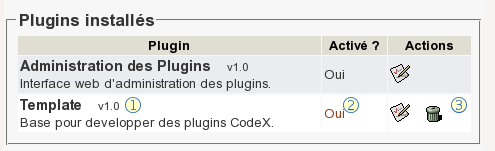
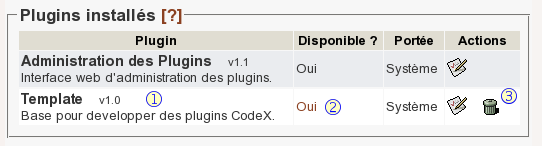
Update PluginsAdministration documentation.

Changed region(s): [[0.0, 0.0548, 0.9697, 0.9589], [0.5455, 0.6027, 0.9697, 0.8219], [0.5455, 0.4384, 0.6061, 0.5205]]

diff --git a/plugins/pluginsadministration/www/documentation/en_US/index.html b/plugins/pluginsadministration/www/documentation/en_US/index.html
@@ -16,7 +16,7 @@
 				<div class="section">This plugin allow administrators to manage plugins with a web-based interface. The features are:
 					<dl>
 						<dt><a href="#manage">Manage Installed Plugins</a></dt>
-						<dd>Enable/disable plugins, consult their properties, uninstall them.</dd>
+						<dd>Available/unavailable plugins, consult their properties, uninstall them.</dd>
 						<dt><a href="#install">Install a Plugin</a></dt>
 						<dd>Finish the installation of the plugin.</dd>
 						<dt><a href="#priorities">Manage Priorities</a></dt>
@@ -32,21 +32,22 @@
 						<dl id="legendInstalledPlugins">
 							<dt id="description">1. Plugin</dt>
 							<dd id="descriptionDef"><a href="#legendInstalledPlugins"><span>Description of the plugin.</span></a></dd>
-							<dt id="enable">2. Enabled?</dt>
-							<dd id="enableDef"><a href="#legendInstalledPlugins"><span>Enable or disable the plugin.</span></a></dd>
+							<dt id="enable">2. Available?</dt>
+							<dd id="enableDef"><a href="#legendInstalledPlugins"><span>Make the plugin (un)available.</span></a></dd>
 							<dt id="actions">3. Actions</dt>
 							<dd id="actionsDef"><a href="#legendInstalledPlugins"><span>Special actions: show its properties, uninstall the plugin.</span></a></dd>
 						</dl>
 					</div>
-					<p>This panel displays informations about installed plugins. Those plugins can be enabled or disabled and you can do others actions : uninstall them and show properties.</p>
-					<p>There is at least one plugin: PluginsAdministration itself, which cannot be uninstalled or disabled.</p>
-					<p>Please note that uninstall or make a plugin disabled through this interface <strong>does not prevent access</strong> to its web pages!</p>
+					<p>This panel displays informations about installed plugins. Those plugins can be available or unavailable and you can do others actions : uninstall them and show properties.</p>
+					<p>There is at least one plugin: PluginsAdministration itself, which cannot be uninstalled or unavailable.</p>
+					<p>Please note that uninstall or set a plugin unavailable through this interface <strong>does not prevent access</strong> to its web pages!</p>
 					<p>The properties for a plugin are:
 						<ul>
 							<li>FullName,</li>
 							<li>Version,</li>
 							<li>Description,</li>
-							<li>Listened Hooks.</li>
+							<li>Listened Hooks,</li>
+							<li>Custom Properties, depending on the plugin itself.</li>
 						</ul>
 					</p>
 				</div>

diff --git a/plugins/pluginsadministration/www/documentation/fr_FR/screenshots.css b/plugins/pluginsadministration/www/documentation/fr_FR/screenshots.css
@@ -18,8 +18,8 @@
 }
 dl#legendInstalledPlugins{
 	background:transparent url(InstalledPlugins.png) top left no-repeat;
-	height: 151px;
-	width: 495px;
+	height: 146px;
+	width: 542px;
 }
 
 dl#legendPriorities{
@@ -45,24 +45,25 @@ dl#legendPriorities{
 }
 
 /* ---------- Hotspot Declarations ---------- */
-dd#descriptionDef{ top: 91px; left: 13px; }
-dd#descriptionDef a{ position: absolute; width: 244px; height: 46px; text-decoration: none; }
+dd#descriptionDef{ top: 87px; left: 17px; }
+dd#descriptionDef a{ position: absolute; width: 265px; height: 40px; text-decoration: none; }
 dd#descriptionDef a span{ display: none; }
-dd#descriptionDef a:hover{ background: red url(InstalledPlugins.png)  -13px  -242px no-repeat; }
-dd#descriptionDef a:hover span {display: block;}
+dd#descriptionDef a:hover{ background: transparent url(InstalledPlugins.png)  -17px  -233px no-repeat; }
+dd#descriptionDef a:hover span {display: block;} 
 
-dd#enableDef{ top: 98px; left: 316px; }
-dd#enableDef a{ position: absolute; width: 55px; height: 29px; text-decoration: none; }
+
+dd#enableDef{ top: 95px; left: 291px; }
+dd#enableDef a{ position: absolute; width: 60px; height: 26px; text-decoration: none; }
 dd#enableDef a span{ display: none; }
-dd#enableDef a:hover{ background: transparent url(InstalledPlugins.png)  -316px -249px  no-repeat; }
-dd#enableDef a:hover span {display: block; width:200%;}
+dd#enableDef a:hover{ background: transparent url(InstalledPlugins.png)  -291px  -241px no-repeat; }
+dd#enableDef a:hover span {display: block; width:200%;} 
 
 
-dd#actionsDef{ top: 95px; left: 392px; }
-dd#actionsDef a{ position: absolute; width: 90px; height: 35px; text-decoration: none;	}
+dd#actionsDef{ top: 86px; left: 443px; }
+dd#actionsDef a{ position: absolute; width: 81px; height: 34px; text-decoration: none; }
 dd#actionsDef a span{ display: none; }
-dd#actionsDef a:hover{ background: transparent url(InstalledPlugins.png) -392px -246px no-repeat; }
-dd#actionsDef a:hover span {display: block; width:250%;}
+dd#actionsDef a:hover{ background: transparent url(InstalledPlugins.png)  -443px  -232px no-repeat; }
+dd#actionsDef a:hover span {display: block; width:250%;} 
 
 /* */
 dd#hookDef{ top: 17px; left: 14px; }

diff --git a/plugins/pluginsadministration/www/documentation/en_US/screenshots.css b/plugins/pluginsadministration/www/documentation/en_US/screenshots.css
@@ -19,7 +19,7 @@
 dl#legendInstalledPlugins{
 	background:transparent url(InstalledPlugins.png) top left no-repeat;
 	height: 151px;
-	width: 496px;
+	width: 491px;
 }
 
 dl#legendPriorities{
@@ -45,23 +45,24 @@ dl#legendPriorities{
 }
 
 /* ---------- Hotspot Declarations ---------- */
-dd#descriptionDef{ top: 91px; left: 14px; }
-dd#descriptionDef a{ position: absolute; width: 244px; height: 46px; text-decoration: none; }
+dd#descriptionDef{ top: 89px; left: 12px; }
+dd#descriptionDef a{ position: absolute; width: 223px; height: 46px; text-decoration: none; }
 dd#descriptionDef a span{ display: none; }
-dd#descriptionDef a:hover{ background: transparent url(InstalledPlugins.png)  -14px  -242px no-repeat; }
+dd#descriptionDef a:hover{ background: transparent url(InstalledPlugins.png)  -12px  -240px no-repeat; }
 dd#descriptionDef a:hover span {display: block;}
 
-dd#enableDef{ top: 98px; left: 317px; }
-dd#enableDef a{ position: absolute; width: 55px; height: 29px; text-decoration: none; }
+
+dd#enableDef{ top: 97px; left: 277px; }
+dd#enableDef a{ position: absolute; width: 59px; height: 28px; text-decoration: none; }
 dd#enableDef a span{ display: none; }
-dd#enableDef a:hover{ background: transparent url(InstalledPlugins.png)  -317px -249px  no-repeat; }
+dd#enableDef a:hover{ background: transparent url(InstalledPlugins.png)  -277px  -248px no-repeat; }
 dd#enableDef a:hover span {display: block; width:200%;}
 
 
-dd#actionsDef{ top: 95px; left: 393px; }
-dd#actionsDef a{ position: absolute; width: 90px; height: 35px; text-decoration: none;	}
+dd#actionsDef{ top: 97px; left: 398px; }
+dd#actionsDef a{ position: absolute; width: 78px; height: 28px; text-decoration: none; }
 dd#actionsDef a span{ display: none; }
-dd#actionsDef a:hover{ background: transparent url(InstalledPlugins.png) -393px -246px no-repeat; }
+dd#actionsDef a:hover{ background: transparent url(InstalledPlugins.png)  -398px  -248px no-repeat; }
 dd#actionsDef a:hover span {display: block; width:250%;}
 
 /* */
